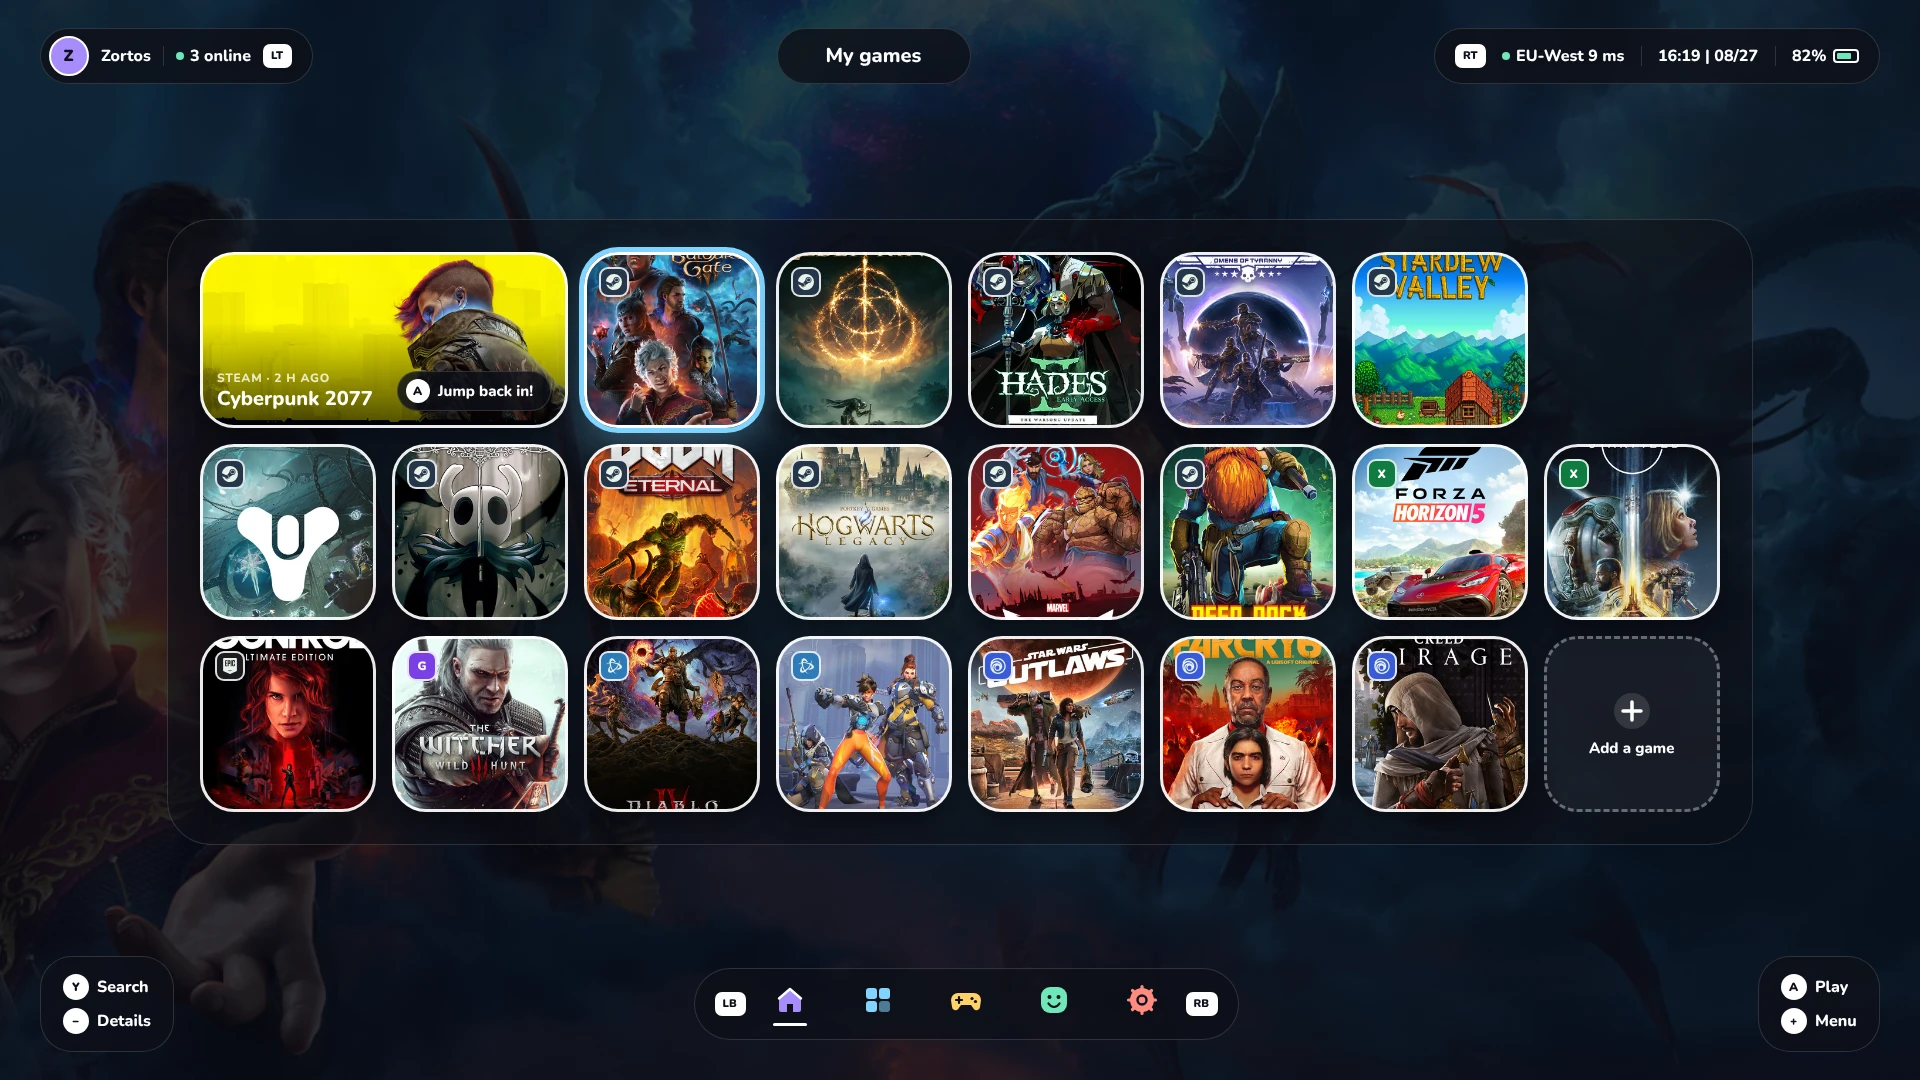
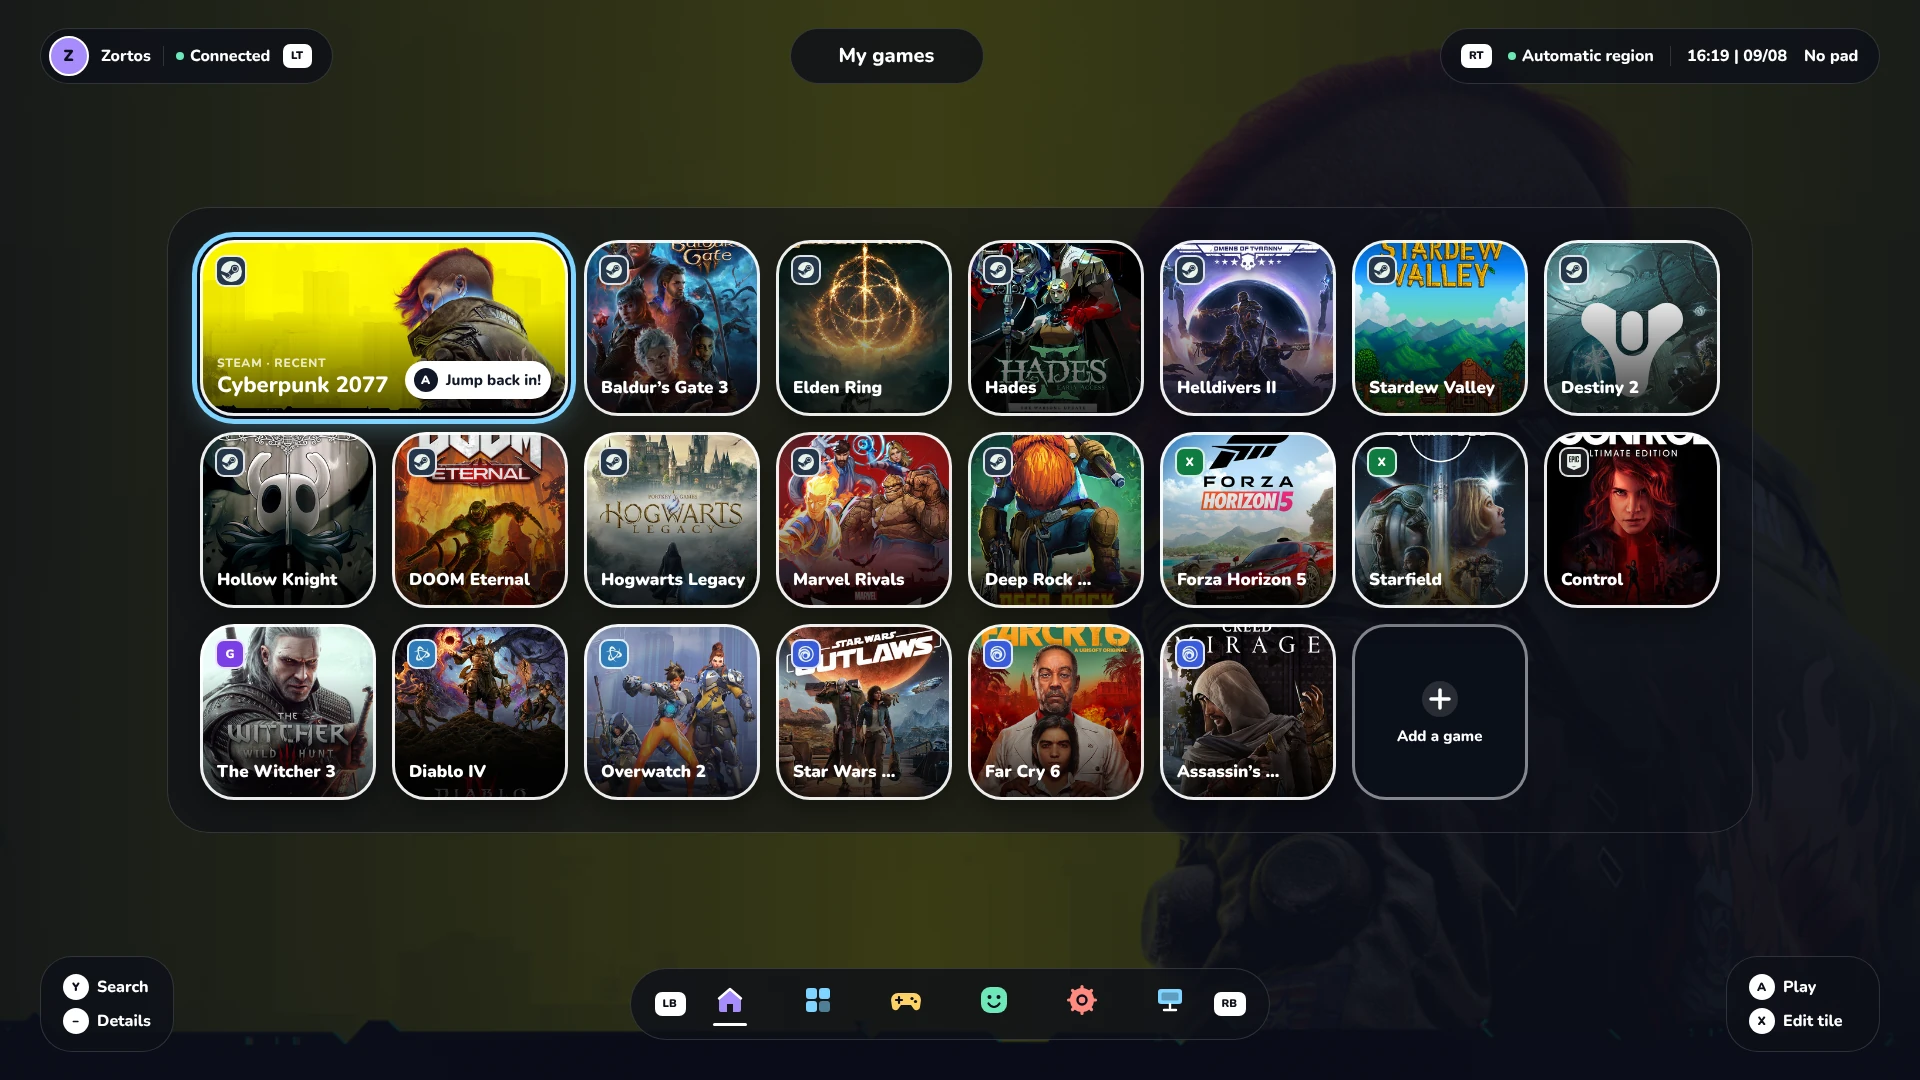
docs: align Paper previews with current Qt layouts

diff --git a/README.md b/README.md
@@ -22,7 +22,7 @@
 </p>
 
 <p align="center">
-  <img src="docs/assets/readme/desktop-home.webp" alt="Paper design preview of OpenNOW Home, with a continue-playing card, game library, and friends panel." width="100%" />
+  <img src="docs/assets/readme/desktop-home.webp" alt="Paper design preview of current OpenNOW Home, with a compact sidebar, full-width continue-playing card, and favourites." width="100%" />
 </p>
 
 <p align="center"><em>Desktop Home · From the OpenNOW Paper design.</em></p>
@@ -46,9 +46,11 @@ layouts share the same application and streaming runtime.
 
 ## Get OpenNOW
 
-Choose a **Qt nightly** from [GitHub Releases](https://github.com/OpenCloudGaming/OpenNOW/releases)
-for the current desktop app. Historical releases may contain the retired Electron client;
-check the release notes and look for `OpenNOW-Qt-…` packages.
+For the current desktop app, look for `OpenNOW-Qt-…` packages in
+[GitHub Releases](https://github.com/OpenCloudGaming/OpenNOW/releases). If no Qt nightly
+is published, signed-in GitHub users can download build artifacts from a successful
+[`qt-ci` run on `dev`](https://github.com/OpenCloudGaming/OpenNOW/actions/workflows/qt-ci.yml?query=branch%3Adev).
+Historical releases may contain the retired Electron client; check the release notes.
 
 | Platform | Current Qt nightly | Getting started |
 | --- | --- | --- |
@@ -75,12 +77,13 @@ These are separate platform projects, not packages of the Qt desktop app.
 ## Inside the client
 
 Images are exported from the [OpenNOW Paper design](https://app.paper.design/file/01M11SPTRPMYQB9S9AX948A6WH/4-0),
-not captured from a running build. Games, account details, and session statistics shown
+with these artboards aligned to the current Qt app's layouts. They are not screenshots
+of a running build. Games, account details, and session statistics shown
 are design content, not a statement of current game availability or measured performance.
 
 ### Desktop library
 
-![Paper design preview of the desktop Library, showing game covers, collection navigation, filters, and a game's context menu.](docs/assets/readme/desktop-library.webp)
+![Paper design preview of the current desktop Library, showing the compact sidebar, collection controls, store filters, and larger game covers.](docs/assets/readme/desktop-library.webp)
 
 ### Controller-first console layout
 

diff --git a/docs/assets/readme/README.md b/docs/assets/readme/README.md
@@ -1,13 +1,22 @@
 # README design images
 
-These images are exports of existing artboards in the **OpenNOW Socket** Paper file,
-not screenshots of the running application. The source designs are unchanged.
+These images are exports of editable artboards in the **OpenNOW Socket** Paper file,
+not screenshots of the running application. The three source artboards were updated
+to follow the current Qt desktop and console layouts, retaining illustrative catalog data.
 
 | Asset | Paper page | Artboard | Node |
 | --- | --- | --- | --- |
-| `desktop-home.webp` | [Desktop (1440)](https://app.paper.design/file/01M11SPTRPMYQB9S9AX948A6WH/4-0) | Desktop · 01 Home | `8N5-0` |
-| `desktop-library.webp` | [Desktop (1440)](https://app.paper.design/file/01M11SPTRPMYQB9S9AX948A6WH/4-0) | Desktop · 02 Library | `81Q-0` |
-| `console-home.webp` | [Console (1920)](https://app.paper.design/file/01M11SPTRPMYQB9S9AX948A6WH/3-0) | V3 · 01 Home | `1GJ-0` |
+| `desktop-home.webp` | [Desktop (1440)](https://app.paper.design/file/01M11SPTRPMYQB9S9AX948A6WH/4-0) | Desktop · 01 Home · Current Qt | `8N5-0` |
+| `desktop-library.webp` | [Desktop (1440)](https://app.paper.design/file/01M11SPTRPMYQB9S9AX948A6WH/4-0) | Desktop · 02 Library · Current Qt | `81Q-0` |
+| `console-home.webp` | [Console (1920)](https://app.paper.design/file/01M11SPTRPMYQB9S9AX948A6WH/3-0) | V3 · 01 Home · Current Qt | `1GJ-0` |
+
+Layout reference: Qt nightly `1.0.0-nightly.225.1`, built from `dev` commit
+[`502cff45`](https://github.com/OpenCloudGaming/OpenNOW/commit/502cff452f5b94d9fc89a78e6b4026a6b317e590)
+in [CI run 34203221079](https://github.com/OpenCloudGaming/OpenNOW/actions/runs/34203221079).
+The packaged Qt application was rendered with an isolated mock core and sample
+catalog, without signing in or starting gameplay. Layout and control details were
+also checked against the desktop Home, Library, Sidebar, console Home, GameTile,
+and NavPill QML components. Other Paper artboards were not part of this refresh.
 
 To refresh, export the listed artboards as PNG at 1×, then encode as WebP at quality
 90 with Pillow's `method=6`. Preserve the original dimensions (1440 × 900 for
